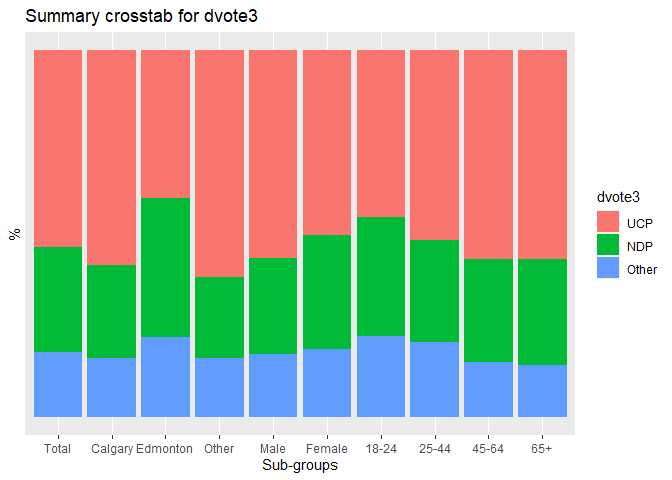
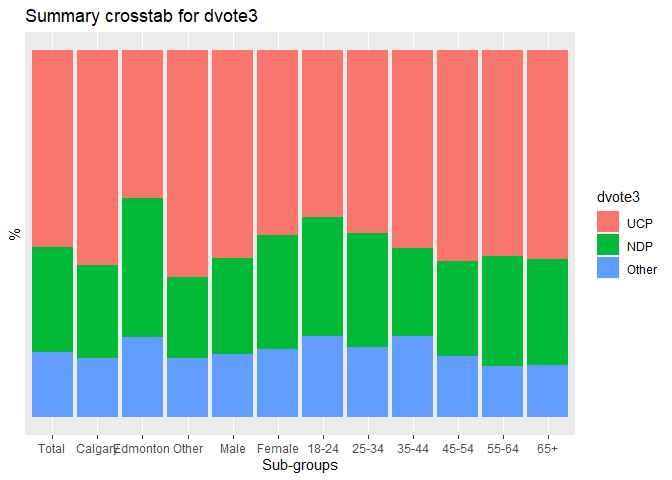
update readme

Changed region(s): [[0.0938, 0.0938, 0.7812, 0.875], [0.0625, 0.9062, 0.8438, 0.9688]]

diff --git a/README.md b/README.md
@@ -28,8 +28,8 @@ Generate the crosstab using `ctab()`.
 
 ``` r
 library(jbsMisc)
-table_vote <- ctab(absvy, yvar = "dvote3", xvar = "region")
-table_vote
+votetbl <- ctab(absvy, yvar = "dvote3", xvar = "region")
+votetbl
 #> # A tibble: 12 × 4
 #> # Groups:   region [4]
 #>    dvote3 region       n   pct
@@ -53,7 +53,7 @@ plotting with `ggplot()`.
 
 ``` r
 library(ggplot2)
-ggplot(table_vote) +
+ggplot(votetbl) +
   aes(x = region, y = pct, fill = dvote3) +
   geom_bar(stat = "identity")
 ```
@@ -62,7 +62,7 @@ ggplot(table_vote) +
 
 ``` r
 library(ggplot2)
-ggplot(table_vote) +
+ggplot(votetbl) +
   aes(x = region, y = pct, fill = dvote3) +
   geom_bar(stat = "identity", position = position_dodge())
 ```
@@ -84,28 +84,29 @@ The output is a list object with the class `ctabs`.
 
 ``` r
 library(jbsMisc)
-table_vote1 <- ctabs(absvy, yvar = "dvote3", xvars = c("region", "female", "age"))
-names(table_vote1)
+votetbl <- ctabs(absvy, yvar = "dvote3", xvars = c("region", "female", "age"))
+names(votetbl)
 #> [1] "Summary" "Total"   "region"  "female"  "age"
 ```
 
 The first slot `$Summary` is the multiple crosstab table.
 
 ``` r
-table_vote1
-#> # A tibble: 3 × 11
-#>   dvote3 Total Calgary Edmonton Other Male  Female `18-24` `25-44` `45-64` `65+`
-#>   <chr>  <chr> <chr>   <chr>    <chr> <chr> <chr>  <chr>   <chr>   <chr>   <chr>
-#> 1 UCP    54%   59%     40%      62%   57%   50%    46%     52%     57%     57%  
-#> 2 NDP    29%   25%     38%      22%   26%   31%    32%     28%     28%     29%  
-#> 3 Other  18%   16%     22%      16%   17%   19%    22%     20%     15%     14%
+votetbl
+#> # A tibble: 3 × 13
+#>   dvote3 Total Calgary Edmonton Other Male  Female `18-24` `25-34` `35-44`
+#>   <chr>  <chr> <chr>   <chr>    <chr> <chr> <chr>  <chr>   <chr>   <chr>  
+#> 1 UCP    54%   59%     40%      62%   57%   50%    46%     50%     54%    
+#> 2 NDP    29%   25%     38%      22%   26%   31%    32%     31%     24%    
+#> 3 Other  18%   16%     22%      16%   17%   19%    22%     19%     22%    
+#> # … with 3 more variables: `45-54` <chr>, `55-64` <chr>, `65+` <chr>
 ```
 
 The second slot `$Total` contains the marginal frequency distribution of
 the row variable.
 
 ``` r
-table_vote1[[2]]
+votetbl[[2]]
 #> # A tibble: 3 × 4
 #>   dvote3 Total     n   pct
 #>   <fct>  <fct> <dbl> <dbl>
@@ -118,7 +119,7 @@ Subsequent tables contain a long- or tidy-format crosstab between the
 row variable and the respective column variable.
 
 ``` r
-table_vote1[[4]]
+votetbl[[4]]
 #> # A tibble: 6 × 4
 #> # Groups:   female [2]
 #>   dvote3 female     n   pct
@@ -137,7 +138,7 @@ There is a `plot()` method included for the objects outputted by
 `ctabs()`.
 
 ``` r
-plot(table_vote1)
+plot(votetbl)
 ```
 
 ![](man/figures/unnamed-chunk-11-1.png)<!-- -->
@@ -153,7 +154,7 @@ plots.
 - `txt =` should text labels be added to graph.
 
 ``` r
-plot(table_vote1, dodge = TRUE, txt = TRUE)
+plot(votetbl, dodge = TRUE, txt = TRUE)
 ```
 
 ![](man/figures/unnamed-chunk-12-1.png)<!-- -->
@@ -162,7 +163,7 @@ plot(table_vote1, dodge = TRUE, txt = TRUE)
 using `+ ...`.
 
 ``` r
-plot(table_vote1, dodge = FALSE, txt = TRUE) +
+plot(votetbl, dodge = FALSE, txt = TRUE) +
   scale_fill_manual(values = c("#184484", "#f37221", "#bbbbbb")) +
   labs(title = "Alberta vote intention",
        subtitle = "Decided/leaning voters only, n=1,074",
@@ -180,7 +181,7 @@ plot(table_vote1, dodge = FALSE, txt = TRUE) +
 The second slot has the marginal frequencies.
 
 ``` r
-plot(table_vote1, 2, dodge = TRUE) + theme_bw()
+plot(votetbl, 2, dodge = TRUE) + theme_bw()
 ```
 
 ![](man/figures/unnamed-chunk-14-1.png)<!-- -->
@@ -189,7 +190,7 @@ Slots 3 onward each have a plot of the row variable against the
 respective column variable.
 
 ``` r
-plot(table_vote1, 5, dodge = TRUE) + theme_bw()
+plot(votetbl, 5, dodge = TRUE) + theme_bw()
 ```
 
 ![](man/figures/unnamed-chunk-15-1.png)<!-- -->
@@ -200,74 +201,85 @@ This function tests columns for significant differences. You can also
 obtain Holm-corrected p-values for multiple comparisons using the
 argument `adj.p = TRUE`.
 
-For now, it outputs a list object where each slot is a data frame of the
-test result summaries (i.e. significance stars). If/when I find some
-time in the future, I’ll update the output to integrate the crosstab
-with the significance markings.
-
 ``` r
-table_vote1 <- ctabs(absvy, yvar = "dvote3", xvars = c("region", "education"))
-table_vote1_tests <- testcols(table_vote1)
+votetbl <- ctabs(absvy, yvar = "dvote3", xvars = c("region", "educ"))
+votetbl_tests <- testcols(votetbl)
 ```
 
 ``` r
-table_vote1_tests
+votetbl_tests
 #> $region
-#>       Calgary - Edmonton Calgary - Other Edmonton - Other
-#> UCP                    *                                *
-#> NDP                    *                                *
-#> Other                                                    
+#> # A tibble: 9 × 5
+#> # Groups:   Response [4]
+#>   Response Stat  Calgary Edmonton Other
+#>   <chr>    <chr> <chr>   <chr>    <chr>
+#> 1 "UCP"    n     "224"   "143"    "208"
+#> 2 " "      pct   "59%"   "40%"    "62%"
+#> 3 " "      sig   "B"     "AC"     "B"  
+#> 4 "NDP"    n     "97"    "136"    "74" 
+#> 5 " "      pct   "25%"   "38%"    "22%"
+#> 6 " "      sig   "B"     "C"      "B"  
+#> 7 "Other"  n     "61"    "77"     "54" 
+#> 8 " "      pct   "16%"   "22%"    "16%"
+#> 9 " "      sig   ""      ""       ""   
 #> 
-#> $education
-#>       HS/less - Some PSE HS/less - Bachelors HS/less - Graduate
-#> UCP                                        *                  *
-#> NDP                                        *                  *
-#> Other                                                          
-#>       Some PSE - Bachelors Some PSE - Graduate Bachelors - Graduate
-#> UCP                      *                   *                    *
-#> NDP                      *                   *                    *
-#> Other
+#> $educ
+#> # A tibble: 9 × 6
+#> # Groups:   Response [4]
+#>   Response Stat  NoPSE SomePSE Bachelors Graduate
+#>   <chr>    <chr> <chr> <chr>   <chr>     <chr>   
+#> 1 "UCP"    n     "115" "274"   "136"     "46"    
+#> 2 " "      pct   "68%" "61%"   "45%"     "31%"   
+#> 3 " "      sig   "CD"  "CD"    "ABD"     "ABC"   
+#> 4 "NDP"    n     "27"  "92"    "112"     "76"    
+#> 5 " "      pct   "16%" "20%"   "37%"     "51%"   
+#> 6 " "      sig   "CD"  "CD"    "ABD"     "ABC"   
+#> 7 "Other"  n     "26"  "85"    "52"      "27"    
+#> 8 " "      pct   "15%" "19%"   "17%"     "18%"   
+#> 9 " "      sig   ""    ""      ""        ""      
+#> 
+#> attr(,"ctabs.test")
+#> [1] TRUE
+#> attr(,"yvar")
+#> [1] "dvote3"
+#> attr(,"ylevs")
+#> [1] "UCP"   "NDP"   "Other"
+#> attr(,"siglabs")
+#> attr(,"siglabs")[[1]]
+#> [1] "A" "B" "C"
+#> 
+#> attr(,"siglabs")[[2]]
+#> [1] "A" "B" "C" "D"
 ```
 
-If you want to see a crosstab at the same time the significant
-differences table, you could do something like this:
+## Nicely-formatted crosstabs
+
+The `ctabs_format()` function takes the output of `testcols` and
+consolidates all crosstabs (with significance testing) into a single
+crosstab.
 
 ``` r
-table_vote1[[3]] %>% 
-  select(-n) %>%
-  pivot_wider(names_from = region, values_from = pct)
-#> # A tibble: 3 × 4
-#>   dvote3 Calgary Edmonton Other
-#>   <fct>    <dbl>    <dbl> <dbl>
-#> 1 UCP      0.586    0.402 0.619
-#> 2 NDP      0.254    0.382 0.220
-#> 3 Other    0.160    0.216 0.161
-table_vote1_tests[[1]]
-#>       Calgary - Edmonton Calgary - Other Edmonton - Other
-#> UCP                    *                                *
-#> NDP                    *                                *
-#> Other
+votetbl_fmt <- ctabs_format(votetbl_tests)
+votetbl_fmt
+#> # A tibble: 10 × 9
+#>    Response Stat  Calgary Edmonton Other NoPSE SomePSE Bachelors Graduate
+#>    <chr>    <chr> <chr>   <chr>    <chr> <chr> <chr>   <chr>     <chr>   
+#>  1 ""       ""    "(A)"   "(B)"    "(C)" "(A)" "(B)"   "(C)"     "(D)"   
+#>  2 "UCP"    "n"   "224"   "143"    "208" "115" "274"   "136"     "46"    
+#>  3 " "      "pct" "59%"   "40%"    "62%" "68%" "61%"   "45%"     "31%"   
+#>  4 " "      "sig" "B"     "AC"     "B"   "CD"  "CD"    "ABD"     "ABC"   
+#>  5 "NDP"    "n"   "97"    "136"    "74"  "27"  "92"    "112"     "76"    
+#>  6 " "      "pct" "25%"   "38%"    "22%" "16%" "20%"   "37%"     "51%"   
+#>  7 " "      "sig" "B"     "C"      "B"   "CD"  "CD"    "ABD"     "ABC"   
+#>  8 "Other"  "n"   "61"    "77"     "54"  "26"  "85"    "52"      "27"    
+#>  9 " "      "pct" "16%"   "22%"    "16%" "15%" "19%"   "17%"     "18%"   
+#> 10 " "      "sig" ""      ""       ""    ""    ""      ""        ""
 ```
 
-Another example with education versus vote choice:
+The `ctabs_kbl()` function is a wrapper function for `kable()` and
+prints publication-ready crosstabs in HTML and LaTeX formats.
 
-``` r
-table_vote1[[4]] %>% 
-  select(-n) %>%
-  pivot_wider(names_from = education, values_from = pct)
-#> # A tibble: 3 × 5
-#>   dvote3 `HS/less` `Some PSE` Bachelors Graduate
-#>   <fct>      <dbl>      <dbl>     <dbl>    <dbl>
-#> 1 UCP        0.684      0.608     0.453    0.309
-#> 2 NDP        0.161      0.204     0.373    0.510
-#> 3 Other      0.155      0.188     0.173    0.181
-table_vote1_tests[[2]]
-#>       HS/less - Some PSE HS/less - Bachelors HS/less - Graduate
-#> UCP                                        *                  *
-#> NDP                                        *                  *
-#> Other                                                          
-#>       Some PSE - Bachelors Some PSE - Graduate Bachelors - Graduate
-#> UCP                      *                   *                    *
-#> NDP                      *                   *                    *
-#> Other
-```
+By using the argument `xvarnames = c()`, you can specify custom names
+for the independent variables.
+
+    ctabs_kbl(votetbl_fmt, xvarnames = c("Region", "Education"))
